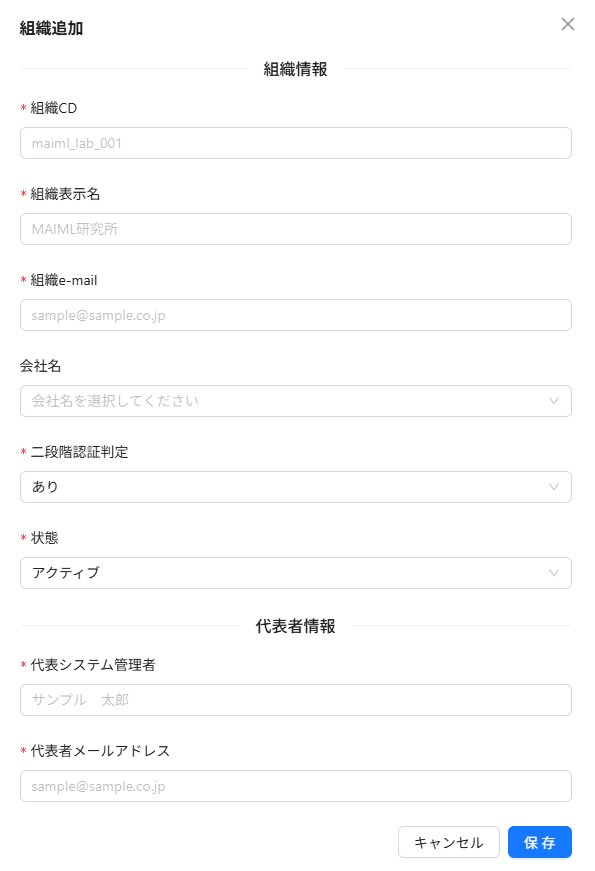
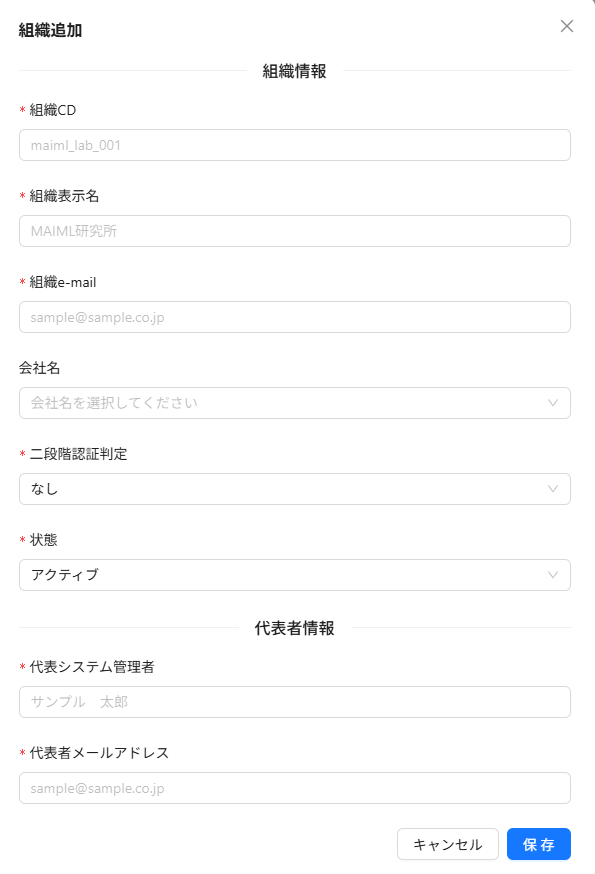
組織管理画面の代表者登録修正対応

diff --git a/frontend/src/components/Provider/OrganizationManagement.tsx b/frontend/src/components/Provider/OrganizationManagement.tsx
@@ -9,12 +9,14 @@ import {
   Modal,
   Form,
   Select,
+  Radio,
   Typography,
   Row,
   Col,
   Badge,
   App,
   Divider,
+  theme,
 } from 'antd';
 import {
   SearchOutlined,
@@ -29,6 +31,7 @@ import { createApiClient } from '@/utils/authUtils';
 import { formatDateTime } from '@/utils/dateFormatter';
 
 const { Text } = Typography;
+const { useToken } = theme;
 
 /**
  * 組織データの型定義（DB連携版）
@@ -70,6 +73,7 @@ interface OptionType {
  */
 export default function OrganizationManagement() {
   const { modal, message: messageApi } = App.useApp();
+  const { token } = useToken();
   const [organizations, setOrganizations] = useState<OrganizationData[]>([]);
   const [loading, setLoading] = useState(false);
   const [searchText, setSearchText] = useState('');
@@ -81,6 +85,9 @@ export default function OrganizationManagement() {
   const [form] = Form.useForm();
   const [companyOptions, setCompanyOptions] = useState<OptionType[]>([]);
   const [systemAdminOptions, setSystemAdminOptions] = useState<OptionType[]>([]);
+  const [isDuplicateChecking, setIsDuplicateChecking] = useState(false);
+  const [isDuplicate, setIsDuplicate] = useState(false);
+  const [organizationCdValue, setOrganizationCdValue] = useState('');
 
   // 初回データ取得
   useEffect(() => {
@@ -354,14 +361,70 @@ export default function OrganizationManagement() {
     }
   };
 
+  // 組織CD重複チェック（デバウンス付き）
+  useEffect(() => {
+    // 編集モードの場合はチェックしない
+    if (editingOrg || !organizationCdValue || organizationCdValue.length === 0) {
+      setIsDuplicate(false);
+      return;
+    }
+
+    const timer = setTimeout(async () => {
+      setIsDuplicateChecking(true);
+      try {
+        const client = createApiClient();
+        const response = await client.get(
+          `/provider/organization/check-cd/${organizationCdValue}`
+        );
+        
+        // 既に存在する場合
+        if (response.data.exists) {
+          setIsDuplicate(true);
+          form.setFields([
+            {
+              name: 'organizationCd',
+              errors: ['この組織CDは既に使用されています']
+            }
+          ]);
+        } else {
+          setIsDuplicate(false);
+          form.setFields([
+            {
+              name: 'organizationCd',
+              errors: []
+            }
+          ]);
+        }
+      } catch (_error) {
+        // エラー時は重複なしとして扱う
+        setIsDuplicate(false);
+      } finally {
+        setIsDuplicateChecking(false);
+      }
+    }, 500);
+
+    return () => clearTimeout(timer);
+  }, [organizationCdValue, form, editingOrg]);
+
   // 組織追加
   const handleAdd = () => {
     setEditingOrg(null);
+    setIsDuplicate(false);
+    setOrganizationCdValue('');
     form.resetFields();
+    
+    // 明示的にすべてのフィールドをリセット
     form.setFieldsValue({
-      isActive: true,
-      isEntry: 1,  // デフォルト値を「あり」に設定
+      organizationCd: '',
+      organizationDisplayName: '',
+      organizationEmail: '',
+      corporationId: undefined,
+      isEntry: 0,                    // デフォルトは「無効」
+      isActive: true,                // デフォルトは「アクティブ」
+      chiefUserName: '',             // 空欄
+      chiefUserEmail: '',            // 空欄
     });
+    
     setIsModalVisible(true);
   };
 
@@ -374,7 +437,7 @@ export default function OrganizationManagement() {
       );
       
       if (response.data.success && Array.isArray(response.data.data)) {
-        const options = response.data.data.map((user: any) => ({
+        const options = response.data.data.map((user: { userName: string; userId: string }) => ({
           label: user.userName,    // 表示: ユーザー名
           value: user.userId,      // 値: ユーザーID
         }));
@@ -670,6 +733,7 @@ export default function OrganizationManagement() {
       }
       
       setIsModalVisible(false);
+      setOrganizationCdValue('');
       form.resetFields();
       await fetchOrganizations();
     } catch (error) {
@@ -690,6 +754,7 @@ export default function OrganizationManagement() {
   // モーダルキャンセル
   const handleModalCancel = () => {
     setIsModalVisible(false);
+    setIsDuplicate(false);
     form.resetFields();
   };
 
@@ -841,6 +906,7 @@ export default function OrganizationManagement() {
 
       <Modal
         title={editingOrg ? '組織編集' : '組織追加'}
+        forceRender
         open={isModalVisible}
         onOk={handleModalOk}
         onCancel={handleModalCancel}
@@ -941,7 +1007,10 @@ export default function OrganizationManagement() {
                 label="組織CD"
                 rules={[{ required: true, message: '組織CDを入力してください' }]}
               >
-                <Input placeholder="maiml_lab_001" />
+                <Input
+                  placeholder="maiml_lab_001"
+                  onChange={(e) => setOrganizationCdValue(e.target.value)}
+                />
               </Form.Item>
 
               <Form.Item
@@ -1006,7 +1075,7 @@ export default function OrganizationManagement() {
                 label="代表システム管理者"
                 rules={[{ required: true, message: '代表システム管理者を入力してください' }]}
               >
-                <Input placeholder="サンプル　太郎" />
+                <Input placeholder="サンプル　太郎" autoComplete="off" />
               </Form.Item>
 
               <Form.Item
@@ -1014,8 +1083,9 @@ export default function OrganizationManagement() {
                 label="代表者メールアドレス"
                 rules={[{ required: true, message: '代表者メールアドレスを入力してください' }]}
               >
-                <Input placeholder="sample@sample.co.jp" />
+                <Input placeholder="sample@sample.co.jp" autoComplete="off" />
               </Form.Item>
+
             </>
           )}
         </Form>

diff --git a/backend/src/services/organizationService.ts b/backend/src/services/organizationService.ts
@@ -4,12 +4,36 @@
  */
 import Papa from 'papaparse';
 import { v4 as uuidv4 } from 'uuid';
+import bcrypt from 'bcrypt';
 import * as organizationRepository from '../repositories/organizationManagementRepository';
 import { OrganizationSearchFilters } from '../repositories/organizationManagementRepository';
 import { getPool } from '../database/db';
 import { generateAndSaveCertificate } from './certificateService';
 import { getStorageService } from './storageService';
 import { logger } from '../utils/logger';
+
+/**
+ * ランダムパスワードを生成（12文字、英大文字・英小文字・数字・記号を含む）
+ */
+function generateRandomPassword(): string {
+  const upper = 'ABCDEFGHIJKLMNOPQRSTUVWXYZ';
+  const lower = 'abcdefghijklmnopqrstuvwxyz';
+  const digits = '0123456789';
+  const symbols = '!@#$%^&*';
+  const all = upper + lower + digits + symbols;
+  // 各種別から最低1文字ずつ確保
+  let password =
+    upper.charAt(Math.floor(Math.random() * upper.length)) +
+    lower.charAt(Math.floor(Math.random() * lower.length)) +
+    digits.charAt(Math.floor(Math.random() * digits.length)) +
+    symbols.charAt(Math.floor(Math.random() * symbols.length));
+  // 残り8文字をランダムに追加
+  for (let i = 0; i < 8; i++) {
+    password += all.charAt(Math.floor(Math.random() * all.length));
+  }
+  // シャッフル
+  return password.split('').sort(() => Math.random() - 0.5).join('');
+}
 
 /**
  * Organizationレスポンス型定義（API型）
@@ -118,6 +142,7 @@ export async function getOrganizationById(
  * 2. organization_user（組織利用者） - 代表システム管理者
  * 3. role（ロール） - ROLE002（システム管理者）
  * 4. role_permission（ロール権限） - 4つの機能権限
+ * 5. user_authentication（利用者認証） - パスワード認証情報
  * 
  * @param data Organization情報
  * @param userId ログインユーザーID
@@ -132,6 +157,7 @@ export async function createOrganization(
     chiefUserId?: string;
     chiefUserName?: string;
     chiefUserEmail?: string;
+    chiefUserPassword?: string;
     corporationId?: string;
     isEntry?: number;
     isActive?: boolean;
@@ -209,7 +235,6 @@ export async function createOrganization(
           roleCd: 'ROLE002',                     // システム管理者
           mailAddress: data.chiefUserEmail,      // mail_address = 代表者メールアドレス
           departmentCd: null,                    // Null
-          lockedUntil: null,                     // Null
           isActive: true,                        // True
         },
         userId,
@@ -236,29 +261,71 @@ export async function createOrganization(
         organizationId: data.organizationId,
         roleCd: 'ROLE002',
         functionCd: '020000',                  // システム管理者メニュー
-        permission: 0,                          // 書込可
+        permission: 1,                          // 書込可
       },
       {
         organizationId: data.organizationId,
         roleCd: 'ROLE002',
         functionCd: '030000',                  // データ管理者メニュー
-        permission: 0,                          // 書込可
+        permission: 1,                          // 書込可
       },
       {
         organizationId: data.organizationId,
         roleCd: 'ROLE002',
         functionCd: '040000',                  // 実験管理者メニュー
-        permission: 0,                          // 書込可
+        permission: 1,                          // 書込可
       },
       {
         organizationId: data.organizationId,
         roleCd: 'ROLE002',
         functionCd: '050000',                  // 実験作業者メニュー
-        permission: 0,                          // 書込可
+        permission: 1,                          // 書込可
       },
     ];
     
     await organizationRepository.createRolePermissions(permissions, userId, client);
+    
+    // 5. user_authenticationテーブルに挿入（パスワード認証情報）
+    if (data.chiefUserEmail) {
+      // ランダムパスワードを自動生成
+      const plainPassword = generateRandomPassword();
+      console.log(`Password:${plainPassword}`);
+      
+      // パスワードをbcryptでハッシュ化（12 rounds）
+      const saltRounds = 12;
+      const passwordHash = await bcrypt.hash(plainPassword, saltRounds);
+      
+      // パスワード有効期限：保存ボタン押下時のタイムスタンプ（現在日時）
+      const passwordExpiresAt = new Date();
+      
+      const authQuery = `
+        INSERT INTO user_authentication (
+          user_id,
+          organization_id,
+          password,
+          is_temporary_flg,
+          password_expires_at,
+          create_user_id,
+          update_user_id,
+          create_at,
+          update_at
+        ) VALUES (
+          $1, $2, $3, $4, $5, $6, $7, NOW(), NOW()
+        )
+      `;
+      
+      const authValues = [
+        data.chiefUserEmail,         // user_id（代表者メールアドレス）
+        data.organizationId,         // organization_id
+        passwordHash,                // password（bcryptハッシュ）
+        true,                        // is_temporary_flg（仮パスワード）
+        passwordExpiresAt,           // password_expires_at（有効期限）
+        userId,                      // create_user_id
+        userId,                      // update_user_id
+      ];
+      
+      await client.query(authQuery, authValues);
+    }
     
     await client.query('COMMIT');
     
@@ -657,7 +724,7 @@ export async function uploadOrganizationsCsv(
       }
       
       // createOrganization関数を使用（組織追加ダイアログと同じ処理）
-      // これにより organization, organization_user, role, role_permission への挿入が自動的に行われる
+      // パスワードはcreateOrganization内でランダム自動生成される
       await createOrganization({
         organizationId: uuidv4(),
         organizationCd,

diff --git a/backend/src/repositories/organizationManagementRepository.ts b/backend/src/repositories/organizationManagementRepository.ts
@@ -498,7 +498,6 @@ export async function createOrganizationUser(
     roleCd: string;
     mailAddress: string;
     departmentCd?: string | null;
-    lockedUntil?: Date | null;
     isActive: boolean;
   },
   userId: string,
@@ -512,14 +511,13 @@ export async function createOrganizationUser(
       role_cd,
       mail_address,
       department_cd,
-      locked_until,
       is_active,
       create_user_id,
       update_user_id,
       create_at,
       update_at
     ) VALUES (
-      $1, $2, $3, $4, $5, $6, $7, $8, $9, $10, NOW(), NOW()
+      $1, $2, $3, $4, $5, $6, $7, $8, $9, NOW(), NOW()
     )
   `;
   
@@ -530,7 +528,6 @@ export async function createOrganizationUser(
     data.roleCd,
     data.mailAddress,
     data.departmentCd || null,
-    data.lockedUntil || null,
     data.isActive,
     userId,
     userId,
